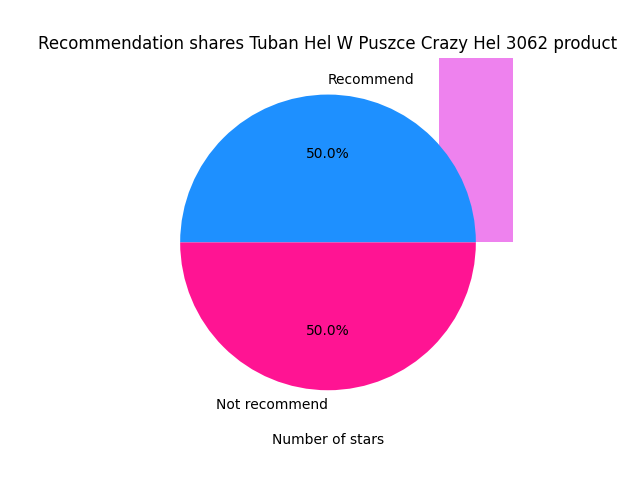
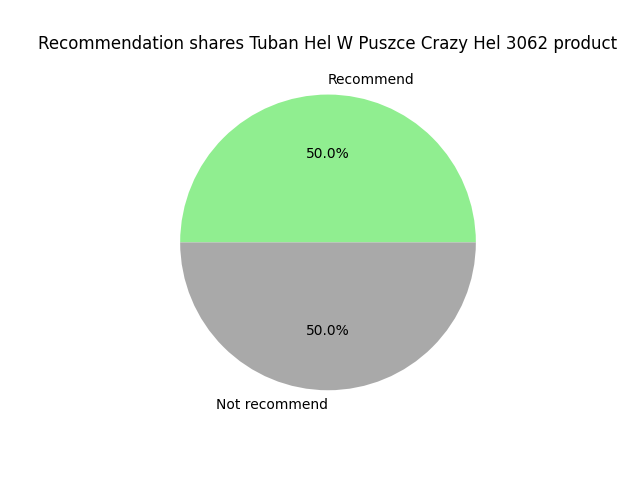
6/11/2024 JF

Changed region(s): [[0.2812, 0.0938, 0.8125, 0.8125], [0.4062, 0.9062, 0.5938, 0.9375]]

diff --git a/app/templates/charts.html b/app/templates/charts.html
@@ -2,4 +2,14 @@
 {% block content %}
     <p>This is {{product_id}} products chart file</p>
     <a type="button" class="btn btn-outline-dark" href="{{url_for('product', product_id=product_id)}}">Opinions</a>
+    <div class="container" >
+        <div class="row">
+            <div class="col-6">
+                <img src="{{url_for('static', filename='charts/'+product_id+'_score.png')}}" class ="img-fluid" alt="Histogram of rates">
+            </div>
+            <div class="col-6">
+                <img src="{{url_for('static', filename='charts/'+product_id+'_recommendation.png')}}" class ="img-fluid" alt="Shares of recommendation">
+            </div>
+        </div>
+    </div>
 {% endblock %}

diff --git a/app/routes.py b/app/routes.py
@@ -83,23 +83,27 @@ def extract():
                         jf =open(f"app/products/{product_id}.json", "w", encoding="UTF-8")
                         json.dump(product, jf, indent=4, ensure_ascii=False)
                         jf.close()
-                        if not os.path.exists("app/charts"):
-                            os.mkdir(f"app/charts")
-                        fig, ax=plt.subplots()
-                        score_distribution.plot.bar(color = "violet")
+                        if not os.path.exists("app/static"):
+                            os.mkdir(f"app/static")
+                        if not os.path.exists("app/static/charts"):
+                            os.mkdir(f"app/static/charts")
+                        fig, ax =plt.subplots()
+                        score_distribution.plot.bar(color = "darkseagreen")
                         plt.xlabel("Number of stars")
                         plt.ylabel("Number of opinions")
                         plt.xticks(rotation = 0)
                         ax.bar_label(ax.containers[0], label_type='edge', fmt = lambda l:int(l) if l else "")
-                        plt.savefig(f'app/charts/{product_id}_score.png')
+                        plt.savefig(f'app/static/charts/{product_id}_score.png')
+                        plt.close()
                         recommendation_distribution.plot.pie(
                         labels =["Recommend", "Not recommend", "Indifferent"],
                         label = "",
-                        colors = ["dodgerblue", "deeppink", "yellow"],
+                        colors = ["lightgreen", "darkgray", "tan"],
                         autopct = lambda l: "{:1.1f}%".format(l) if l else ""
                         )
                         plt.title(f"Recommendation shares {product_name} product")
                         plt.savefig(f'app/charts/{product_id}_recommendation.png')
+                        plt.close()
                 return redirect(url_for('product', product_id=product_id))
             return  render_template("extract.html", error = 'Product has no opinions')
         return render_template("extract.html", error = 'Product does not exist')
